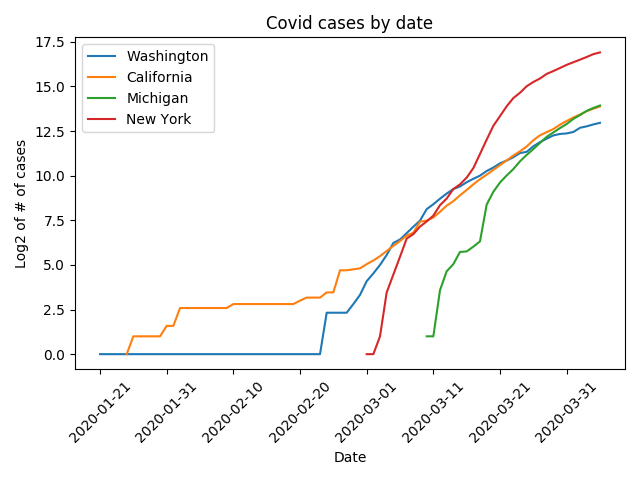
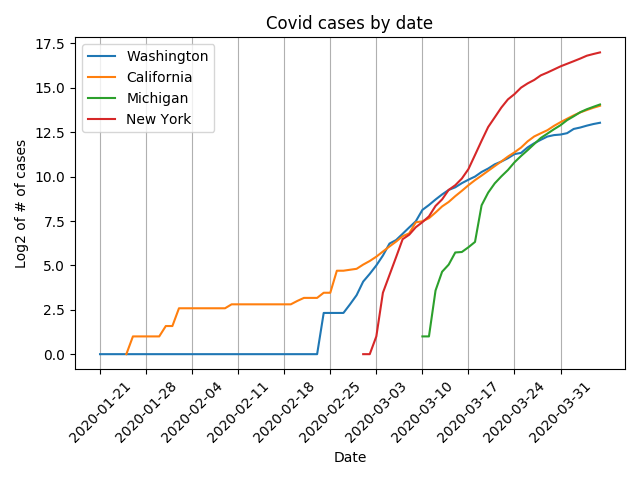
update

diff --git a/process_data.py b/process_data.py
@@ -10,7 +10,8 @@ def main(states=None):
         df_state = df[df.state == state]
         plt.plot(df_state.date, np.log2(df_state.cases), label=state)
     x_ticks, _ = plt.xticks()
-    plt.xticks(x_ticks[::10], rotation=45)
+    plt.xticks(x_ticks[::7], rotation=45)
+    plt.grid(axis='x')
     plt.title('Covid cases by date')
     plt.ylabel('Log2 of # of cases')
     plt.xlabel('Date')
